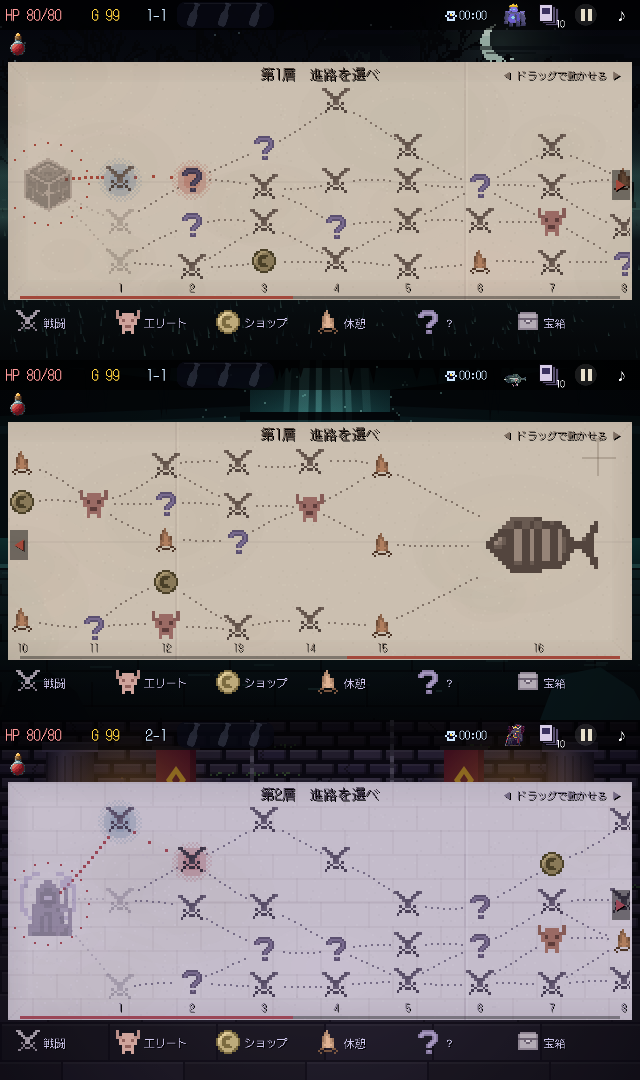
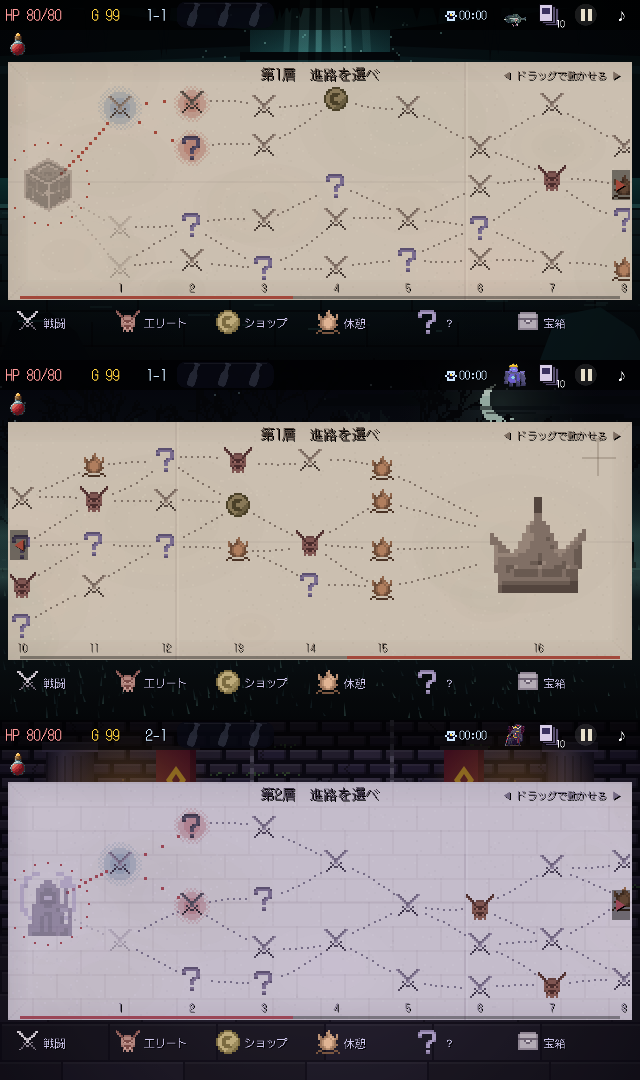
地図のマス2px見本：？・エリートの顔・コイン・火を直す
Claude-Session: https://claude.ai/code/session_01WH54oS4KmYdGRLZPTJSRWC

diff --git a/dev/mock/map_2px_map.js b/dev/mock/map_2px_map.js
@@ -1,11 +1,11 @@
 const {chromium}=require('playwright'),path=require('path'),fs=require('fs');const G=JSON.parse(fs.readFileSync('/tmp/claude-0/ser/g12.json'));
-(async()=>{const b=await chromium.launch();const p=await b.newPage({viewport:{width:640,height:360},deviceScaleFactor:1});const er=[];p.on('pageerror',e=>er.push(e.message));await p.goto('file://'+path.resolve('dev/index.html'));await p.waitForTimeout(400);await p.evaluate(()=>{window.requestAnimationFrame=()=>0});
+(async()=>{const b=await chromium.launch();const p=await b.newPage({viewport:{width:640,height:360},deviceScaleFactor:1});const er=[];p.on('pageerror',e=>er.push(e.message));await p.goto('file://'+path.resolve('dev/_tmp_mock.html'));await p.waitForTimeout(400);await p.evaluate(()=>{window.requestAnimationFrame=()=>0});
 const shots=[];
 for(const [a,sc] of [[1,0],[1,9999],[2,0]]){
 const d=await p.evaluate(([G,a,sc])=>{
  const gi=(rows,dc,lc,pad)=>{const n=rows.length,N=n+(pad||0)*2,c=MKC(N,N),x=c.getContext('2d'),A=hx3(dc),L=hx3(lc);rows.forEach((r,y)=>[...r].forEach((ch,i)=>{if(ch==='.')return;const t=(+ch-1)/3;x.fillStyle='rgb('+A.map((v,k)=>Math.round(v+(L[k]-v)*t)).join(',')+')';x.fillRect(i+(pad||0),y+(pad||0),1,1)}));return c};
  const CC={};const g=(k,d,l,pad)=>CC[k+d+l]||(CC[k+d+l]=gi(G[k],d,l,pad));
- window.mMon=(e,d,l)=>e?g('e',d,l):g('b',d,l,1);
+ window.__mm=(e,d,l)=>e?g('e',d,l):g('b',d,l,1);
  const tk={2:'s',3:'r',4:'q',5:'c'};const oT=window.micT;window.micT=(t,d,l)=>tk[t]?g(tk[t],d,l):oT(t,d,l);
  MPSZ.e=28/24;MPSZ.n=1;
  newRun(0);P.nw=1;for(let i=1;i<a;i++)startAct();P.anA=P.act;AIN=null;CUR.f=0;CUR.j=MP[0].findIndex(n=>n);P.path=['0,'+CUR.j];go('map');AIN=null;MSC=sc;ctx.setTransform(K,0,0,K,0,0);btns=[];draw();return cv.toDataURL()},[G,a,sc]);
